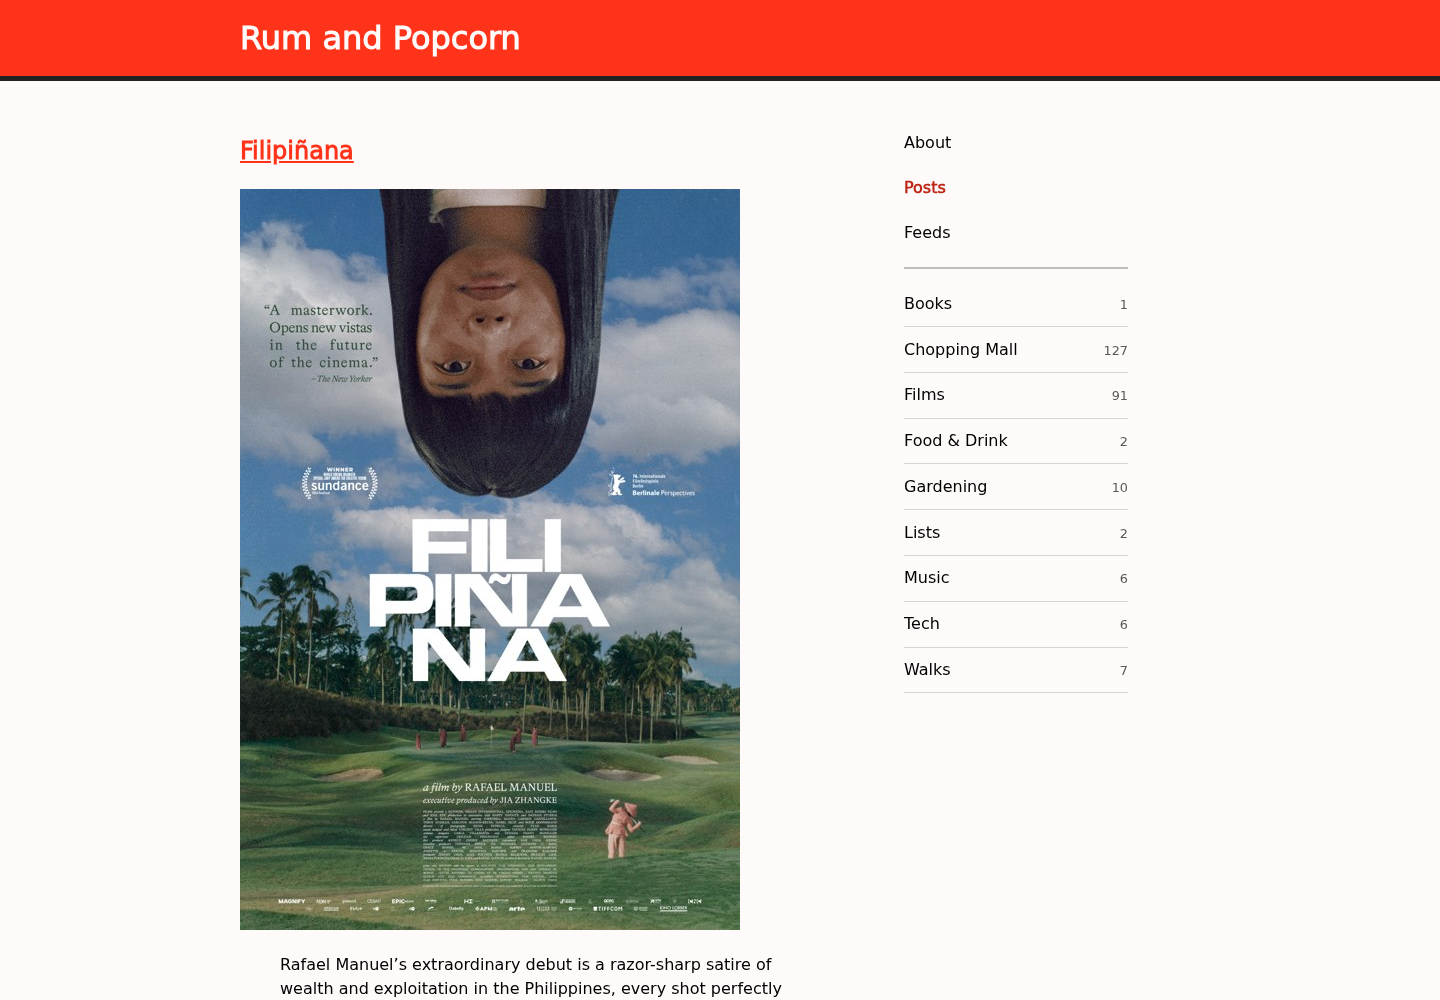
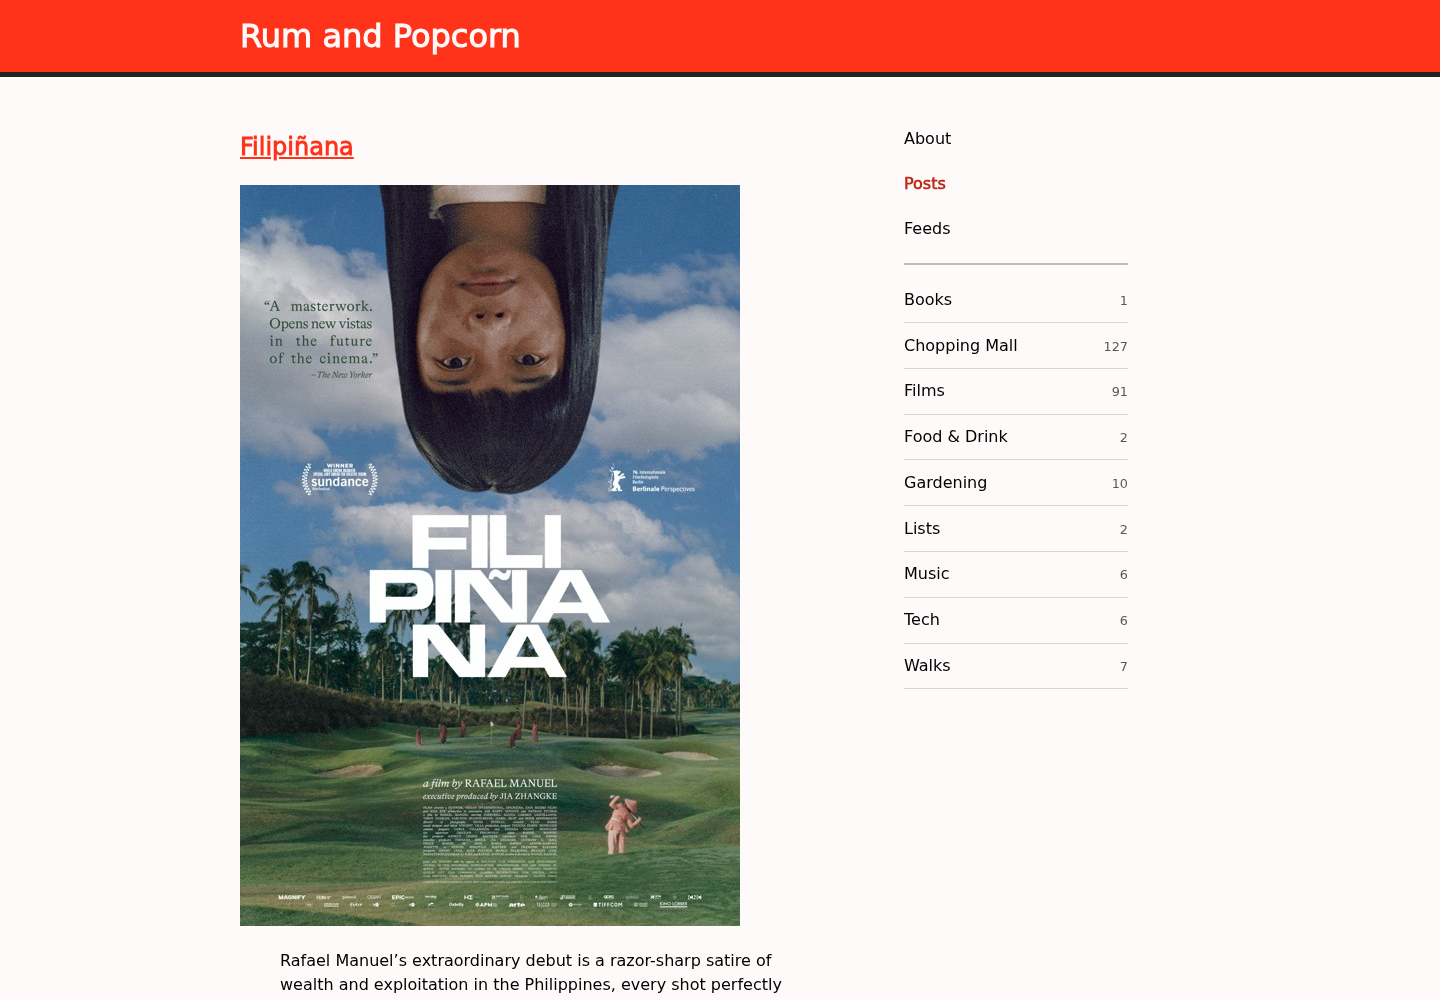
Trim a little more space from the header

diff --git a/rnp/themes/chocos/assets/css/main.css b/rnp/themes/chocos/assets/css/main.css
@@ -50,7 +50,7 @@ body {
 .header-inner {
   max-width: 960px;
   margin: 0 auto;
-  padding: 0.875rem 1rem;
+  padding: 0.75rem 1rem;
   display: flex;
   align-items: baseline;
   justify-content: space-between;
@@ -181,8 +181,8 @@ header > .header-inner > a:focus-visible,
     box-sizing: border-box;
     display: block;
     position: relative;
-    padding-top: 0.625rem;
-    padding-bottom: 0.625rem;
+    padding-top: 0.5rem;
+    padding-bottom: 0.5rem;
   }
 
   .site-title {
@@ -204,7 +204,7 @@ header > .header-inner > a:focus-visible,
 
   .mobile-menu summary {
     position: absolute;
-    top: 0.25rem;
+    top: 0.125rem;
     right: 0.75rem;
     width: 44px;
     height: 44px;
